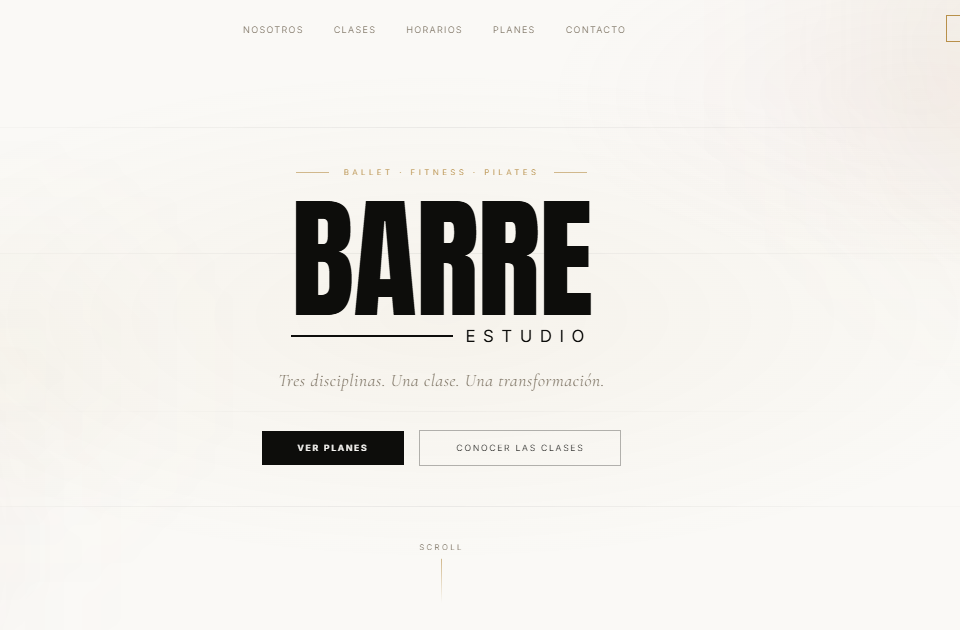
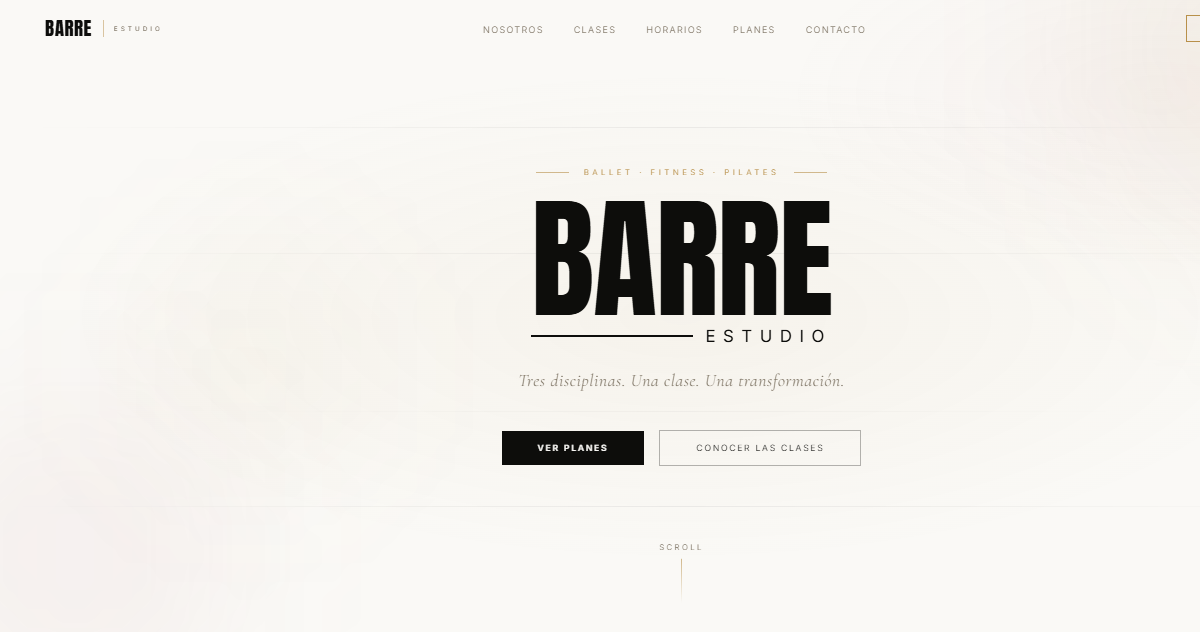
Portfolio: fix all accent colors to site green, recrop images from originals, fix image positions

diff --git a/src/components/PortfolioSection.jsx b/src/components/PortfolioSection.jsx
@@ -11,10 +11,10 @@ const PROJECTS = [
     cat: 'Inmobiliaria',
     year: '2026',
     bg: 'linear-gradient(160deg, #0c1628 0%, #1a3258 100%)',
-    accent: '#5b9bd5',
+    accent: '#5ed29c',
     url: 'https://benmacompanis-sketch.github.io/ovelar-propiedades/',
     img: '/codenest/portfolio/ovelar.png',
-    imgPos: '6% 5%',
+    imgPos: '6% 30%',
     tag: 'Inmuebles · CABA',
   },
   {
@@ -22,10 +22,10 @@ const PROJECTS = [
     cat: 'Veterinaria',
     year: '2026',
     bg: 'linear-gradient(160deg, #030d12 0%, #062534 100%)',
-    accent: '#00e5b4',
+    accent: '#5ed29c',
     url: 'https://benmacompanis-sketch.github.io/Veterinaria/',
     img: '/codenest/portfolio/veterinaria.png',
-    imgPos: '58% center',
+    imgPos: '20% center',
     tag: 'Clínica · Caballito',
   },
   {
@@ -33,10 +33,10 @@ const PROJECTS = [
     cat: 'Gastronomía',
     year: '2026',
     bg: 'linear-gradient(160deg, #100500 0%, #2a1200 100%)',
-    accent: '#e8a020',
+    accent: '#5ed29c',
     url: 'https://benmacompanis-sketch.github.io/Cuchadelpari/',
     img: '/codenest/portfolio/cuchadelpari.png',
-    imgPos: '4% 40%',
+    imgPos: '0% 35%',
     tag: 'Bar & Cocina · Buenos Aires',
   },
   {
@@ -44,10 +44,10 @@ const PROJECTS = [
     cat: 'Fitness & Danza',
     year: '2026',
     bg: 'linear-gradient(160deg, #f5f0eb 0%, #ede6dd 100%)',
-    accent: '#c8956c',
+    accent: '#5ed29c',
     url: 'https://benmacompanis-sketch.github.io/barre-estudio/',
     img: '/codenest/portfolio/barre.png',
-    imgPos: 'center 35%',
+    imgPos: '15% center',
     tag: 'Estudio · Buenos Aires',
   },
 ]